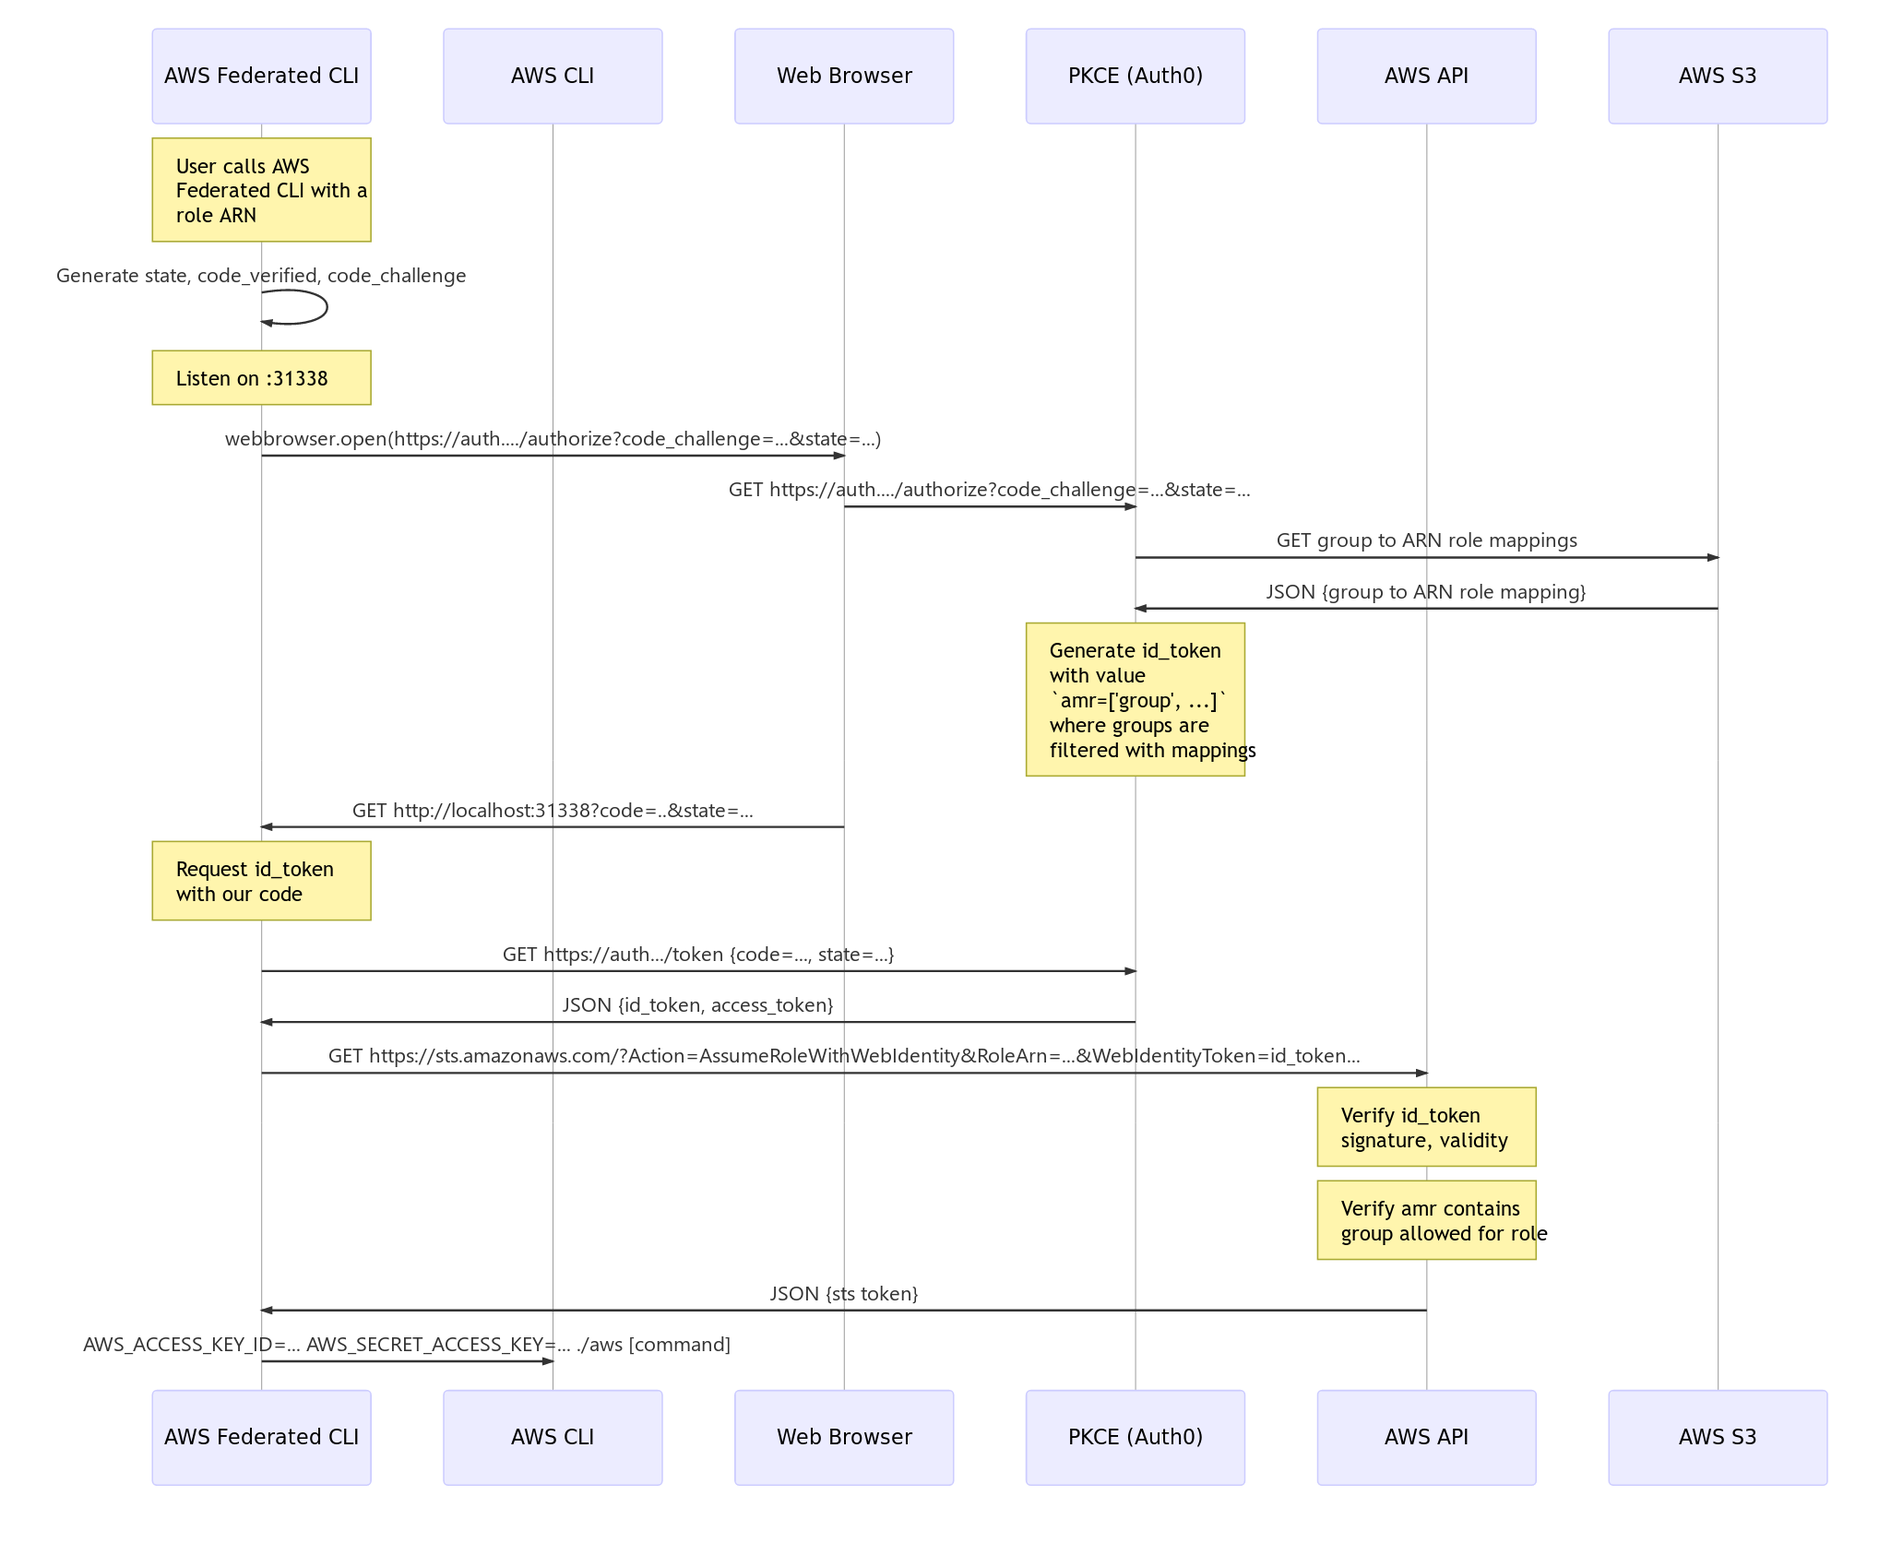
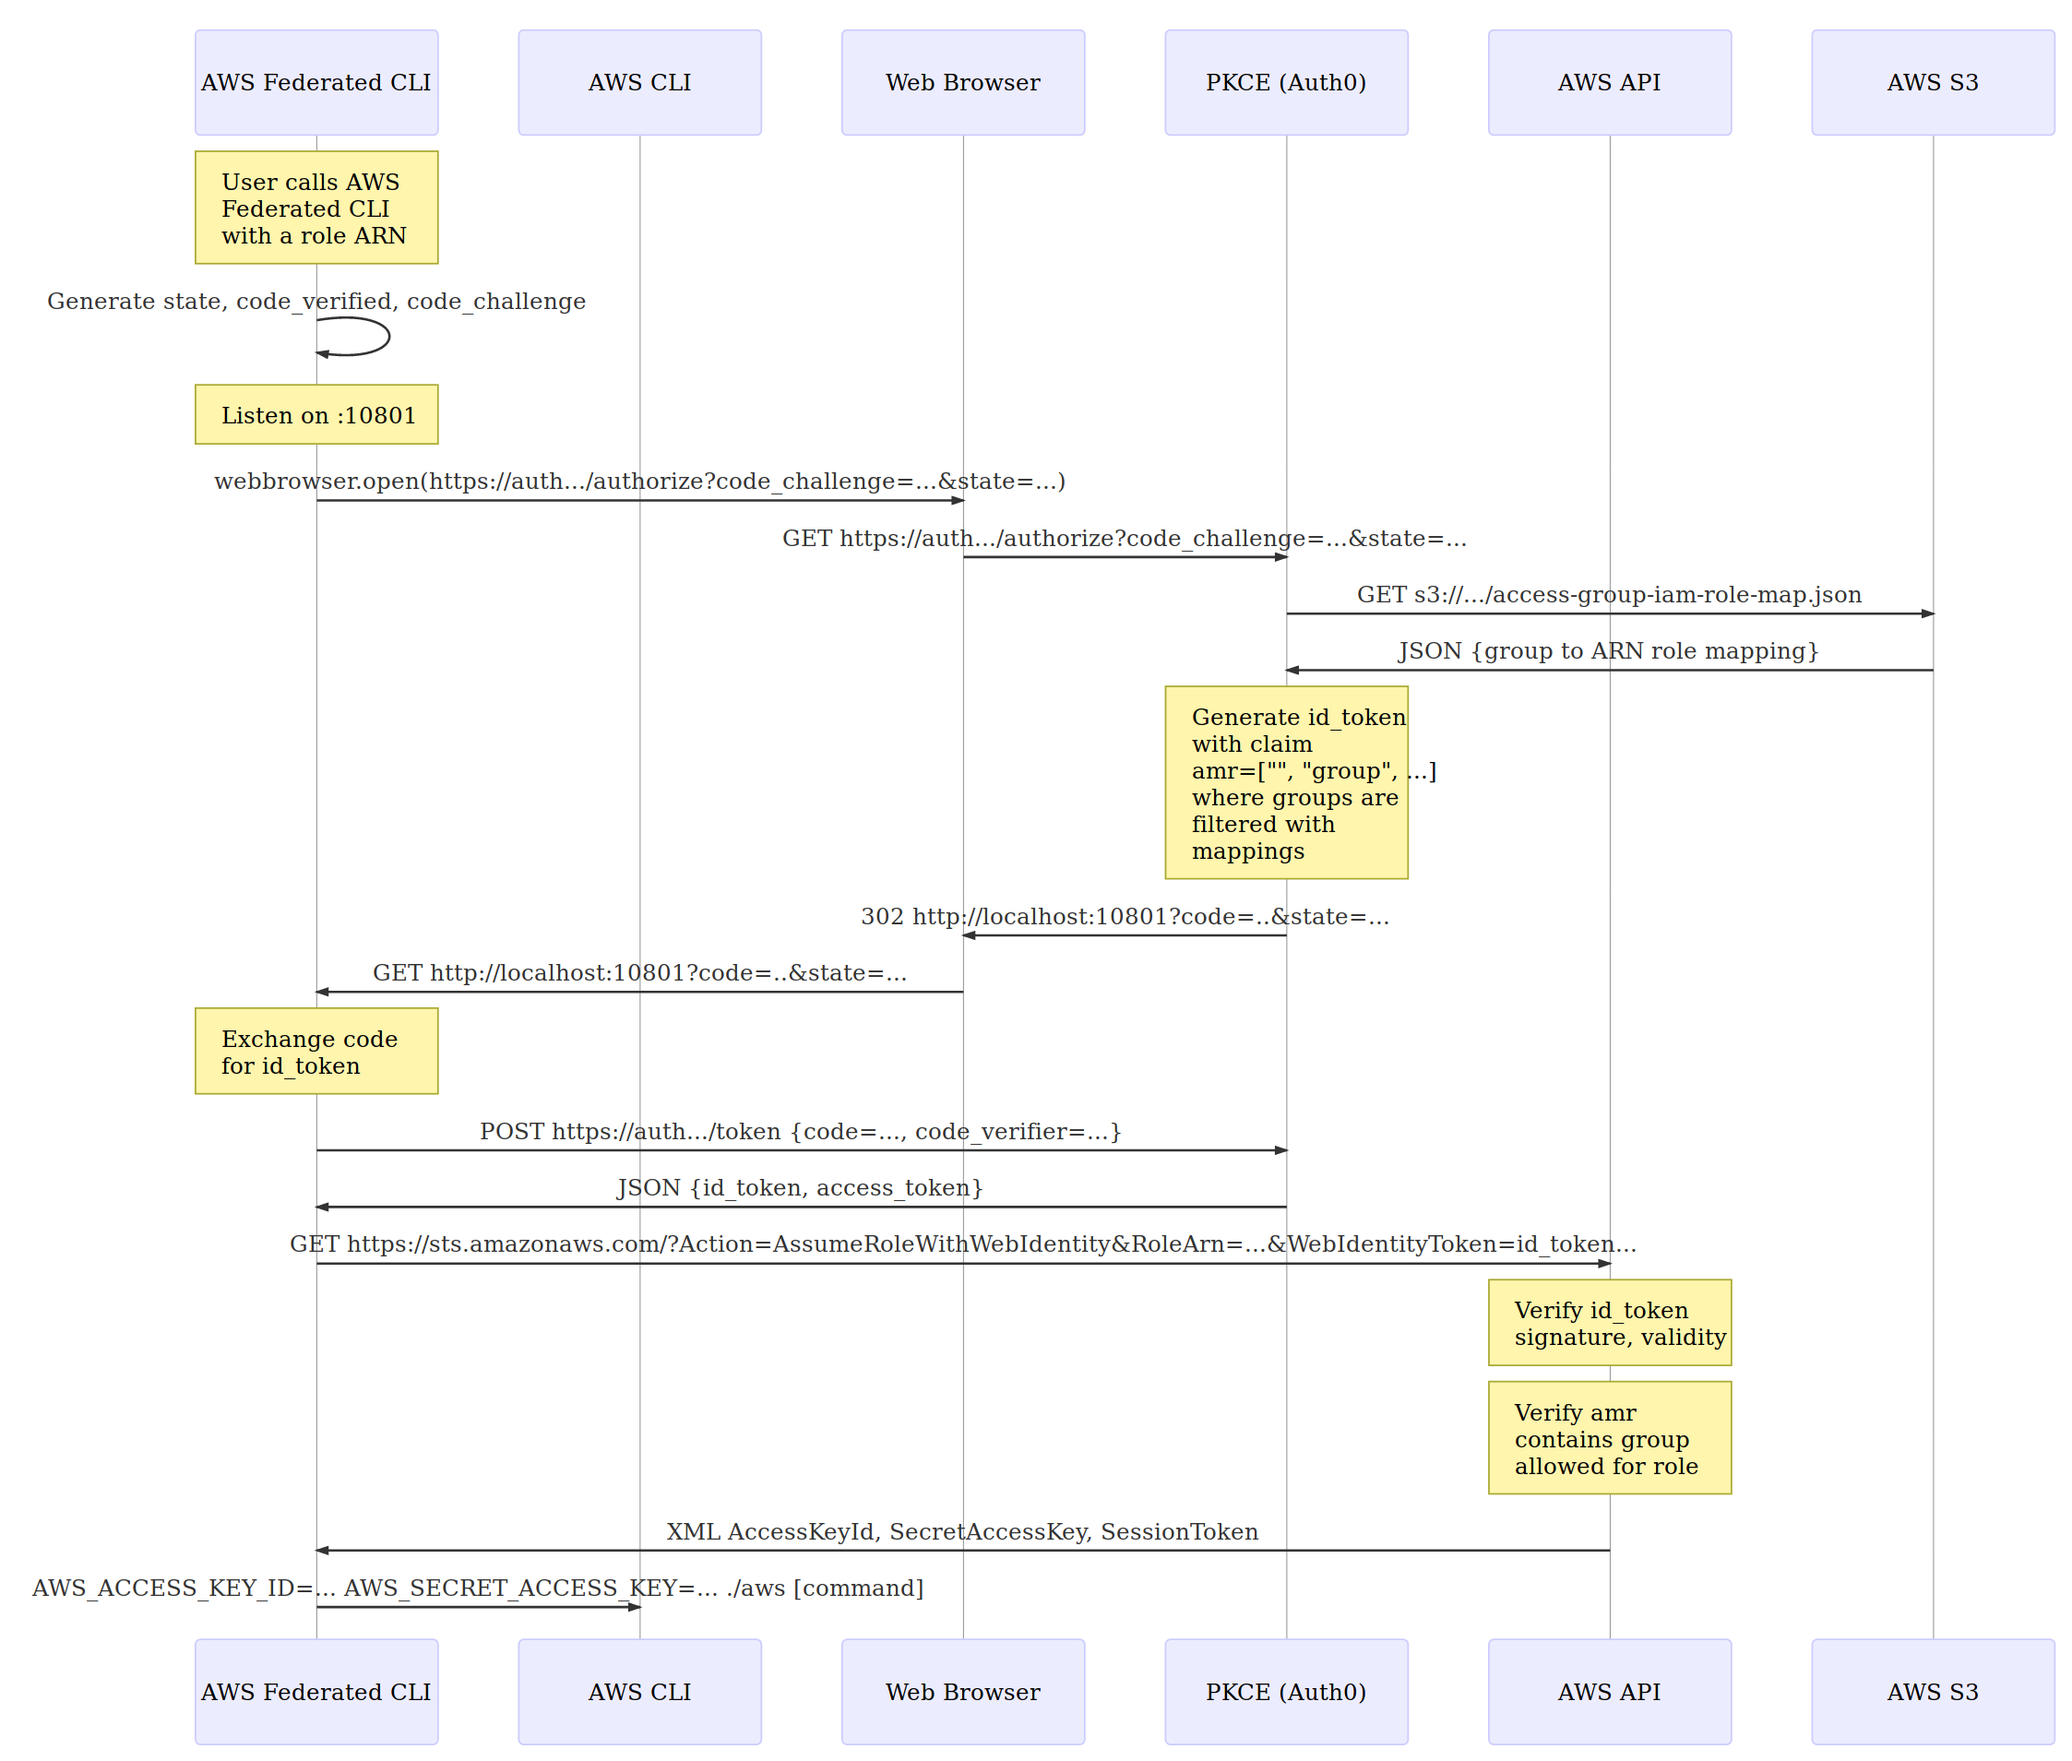
Pass all query parameters through so that error messages are passed (#85)
* Exit if there's a problem instead of hanging

* Pass all query parameters through so that error messages are passed

* Update sequence diagram

* Fix indent bug introduced in conflict solving during merge

* Fix python 2.7 import error

* Fix pre python 3.3 exception PermissionError

* Fix PEP008 line length violation

diff --git a/federated_aws_cli/static/index.js b/federated_aws_cli/static/index.js
@@ -8,6 +8,8 @@ window.addEventListener("load", () => {
        body: JSON.stringify({
            code: url.searchParams.get("code"),
            state: url.searchParams.get("state"),
+           error: url.searchParams.get("error"),
+           error_description: url.searchParams.get("error_description"),
        }),
        headers: {
            "Content-Type": "application/json",

diff --git a/federated_aws_cli/listener.py b/federated_aws_cli/listener.py
@@ -46,27 +46,27 @@ def catch_all(filename):
 
 @app.route("/redirect_uri")
 def handle_oidc_redirect():
-    """
-    Handles the return from auth0, returning a page that indicates you can
-    close everything
+    """Handles the redirect from Auth0, returning the user a web page which
+    causes the user's web browser to make a backend call to /redirect_callback.
+    The page itself tells the user that they can close the page.
 
     :return: html page
     """
-    logger.debug("redirect parameters: \n%{args}".format(args=request.args))
+    logger.debug(
+        "Listener received a call to /redirect_uri with query parameters:\n"
+        "%{args}".format(args=request.args))
 
-    return(catch_all("index.html"))
+    return catch_all("index.html")
 
 
 @app.route("/redirect_callback", methods=["POST"])
 def handle_oidc_redirect_callback():
-    logger.debug(request.json.get("code"))
-    logger.debug(request.json.get("state"))
+    logger.debug(
+        'Listener received a POST to /redirect_callback with a payload of '
+        '{}'.format(request.json))
 
-    # callback into the login function
-    success = globals()["callback"](
-        code=request.json["code"],
-        state=request.json["state"]
-    )
+    # callback into the login.callback() function in login.py
+    success = globals()["callback"](**request.json)
 
     # the callback should send SIGINT, but this is done to prevent
     # race conditions

diff --git a/federated_aws_cli/login.py b/federated_aws_cli/login.py
@@ -163,6 +163,9 @@ class Login:
                 "redirect_uri": self.redirect_uri,
             }
 
+            logger.debug(
+                "POSTing to token endpoint to exchange code for id_token: "
+                "{}".format(body))
             token = requests.post(
                 self.token_endpoint, headers=headers, json=body).json()
 
@@ -191,7 +194,8 @@ class Login:
                 logger.debug(
                     'Roles and aliases are {}'.format(roles_and_aliases))
                 try:
-                    self.role_arn = show_role_picker(roles_and_aliases, message)
+                    self.role_arn = show_role_picker(
+                        roles_and_aliases, message)
                 except NoPermittedRoles as e:
                     logger.error(e)
                     break

diff --git a/federated_aws_cli/cache.py b/federated_aws_cli/cache.py
@@ -3,6 +3,7 @@ import jose.exceptions
 import json
 import logging
 import os
+import sys
 import time
 
 from contextlib import contextmanager
@@ -15,6 +16,9 @@ from stat import S_IRWXG, S_IRWXO, S_IRWXU
 CLOCK_SKEW_ALLOWANCE = 300         # 5 minutes
 GROUP_ROLE_MAP_CACHE_TIME = 3600   # 1 hour
 
+if sys.version_info < (3, 3):
+    class PermissionError(OSError):
+        pass
 
 logger = logging.getLogger(__name__)
 
@@ -27,7 +31,7 @@ def _fix_permissions(path, permissions):
         os.chmod(path, permissions)
         logger.debug("Successfully repaired permissions on: {}".format(path))
         return True
-    except (IOError, PermissionError):
+    except (IOError, PermissionError, OSError):
         logger.debug("Failed to repair permissions on: {}".format(path))
         return False
 

diff --git a/federated_aws_cli/role_picker.py b/federated_aws_cli/role_picker.py
@@ -6,8 +6,7 @@ import requests
 import consolemenu
 import consolemenu.menu_component
 
-from federated_aws_cli.cache import read_group_role_map, write_group_role_map
-
+from .cache import read_group_role_map, write_group_role_map
 
 try:
     # Python 3.3+

diff --git a/docs/img/sequence.md b/docs/img/sequence.md
@@ -8,22 +8,25 @@ participant PKCE as PKCE (Auth0)
 participant AWS as AWS API
 participant S3 as AWS S3
 
-Note over FCLI: User calls AWS <br>Federated CLI with a<br> role ARN
+Note over FCLI: User calls AWS <br>Federated CLI<br>with a role ARN
 FCLI->>FCLI: Generate state, code_verified, code_challenge
-note over FCLI: Listen on :31338
-FCLI->>WB: webbrowser.open(https://auth..../authorize?code_challenge=...&state=...)
-WB->>PKCE: GET https://auth..../authorize?code_challenge=...&state=...
-PKCE->>S3: GET group to ARN role mappings
+note over FCLI: Listen on :10801
+FCLI->>WB: webbrowser.open(https://auth.../authorize?code_challenge=...&state=...)
+WB->>PKCE: GET https://auth.../authorize?code_challenge=...&state=...
+PKCE->>S3: GET s3://.../access-group-iam-role-map.json
 S3->>PKCE: JSON {group to ARN role mapping}
 
-note over PKCE: Generate id_token <br>with value <br>`amr=['group', ...]`<br>where groups are <br>filtered with mappings
-WB->>FCLI: GET http://localhost:31338?code=..&state=...
-note over FCLI: Request id_token<br> with our code
-FCLI->>PKCE: GET https://auth.../token {code=..., state=...}
+note over PKCE: Generate id_token <br>with claim <br>amr=["", "group", ...]<br>where groups are <br>filtered with<br>mappings
+PKCE->>WB: 302 http://localhost:10801?code=..&state=...
+WB->>FCLI: GET http://localhost:10801?code=..&state=...
+
+note over FCLI: Exchange code<br> for id_token
+FCLI->>PKCE: POST https://auth.../token {code=..., code_verifier=...}
 PKCE->>FCLI: JSON {id_token, access_token}
 FCLI->>AWS:  GET https://sts.amazonaws.com/?Action=AssumeRoleWithWebIdentity&RoleArn=...&WebIdentityToken=id_token...
 note over AWS: Verify id_token <br>signature, validity
-note over AWS: Verify amr contains<br> group allowed for role
-AWS->>FCLI: JSON {sts token}
+note over AWS: Verify amr<br>contains group<br>allowed for role
+AWS->>FCLI: XML AccessKeyId, SecretAccessKey, SessionToken
 
 FCLI->>ACLI: AWS_ACCESS_KEY_ID=... AWS_SECRET_ACCESS_KEY=... ./aws [command]
+```
